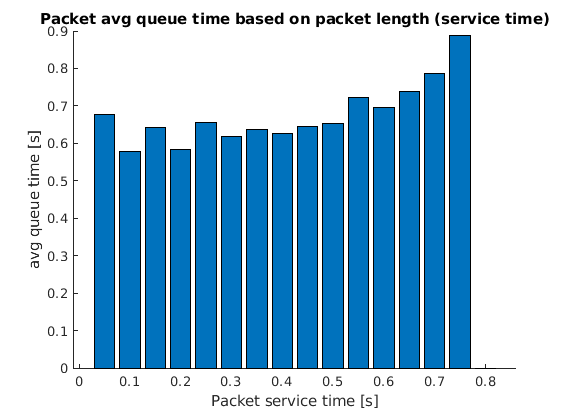
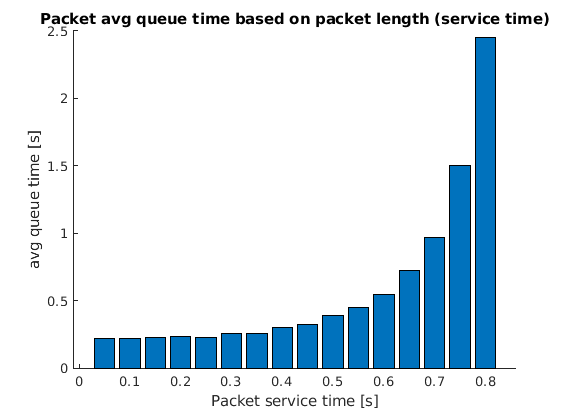
fixed lil error in analyzer and remake graphs

diff --git a/analysis/analyzer.m b/analysis/analyzer.m
@@ -8,17 +8,17 @@ headerlinesIn = 1;
 A = importdata(name, delimiterIn, headerlinesIn);
 
 % ampiezza dell'intervallo della distribuzione uniforme
-L = 3;
+L = 0.8;
 
 % precisione con cui dividere l'intervallo della uniforme
-delta = 0.1;
+delta = 0.05;
 
 % parametri usati per scandire gli intervalli
 from = 0;
 to = delta;
 
 % inizializzazione matrice dei risultati
-result_size = L/0.1;
+result_size = L/delta;
 R = [result_size,5];
 for i = 1:result_size
     R(i,1) = from;  % pacchetti con lunghezza compresa da
@@ -36,7 +36,7 @@ for i = 1:length(A.data)
     from = 0;
     to = delta;
     row = 1;
-    while to <= L
+    while to <= L+1
         if ((A.data(i,3) > from) && (A.data(i,3) < to))
 
             % somma del tempo totale di coda
